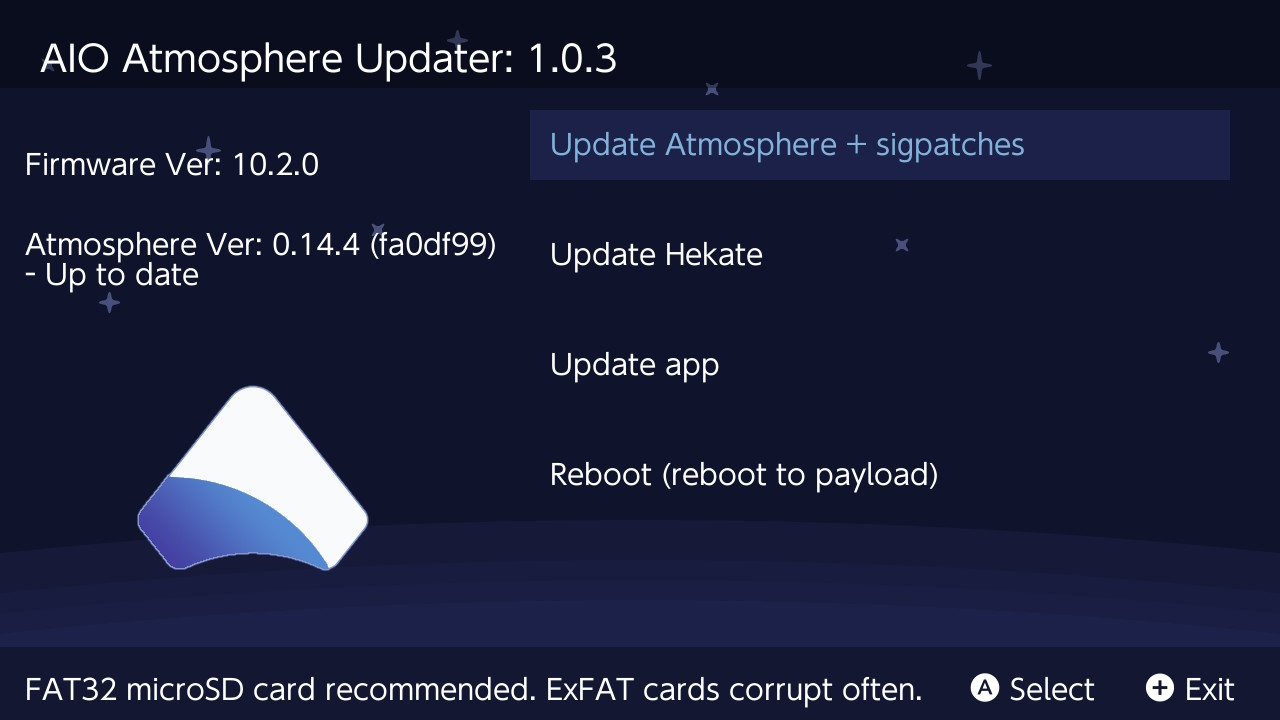
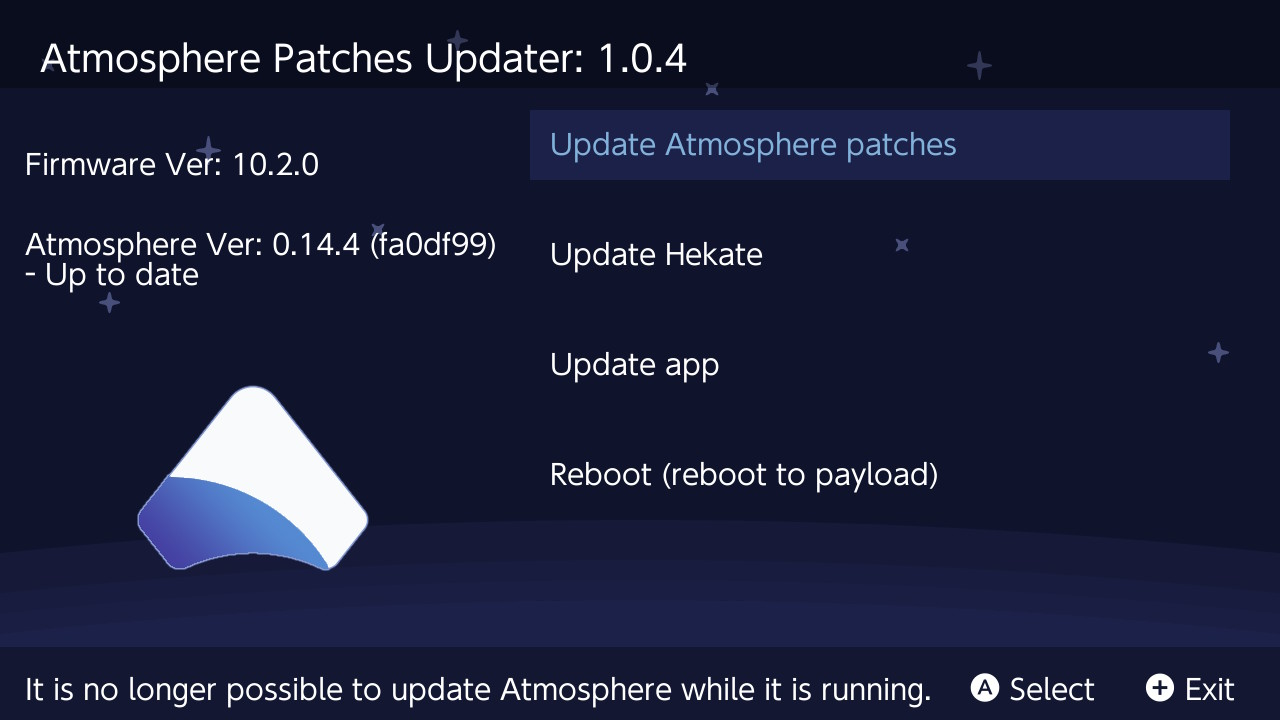
RIP updating atmosphere
https://github.com/Atmosphere-NX/Atmosphere/commit/5b02c77400e8551199fefdbc36b1eb3ff86374dc

Changed region(s): [[0.0312, 0.0611, 0.5312, 0.1222], [0.0, 0.9167, 0.7188, 0.9778], [0.6562, 0.1833, 0.8125, 0.2444]]

diff --git a/source/menu.c b/source/menu.c
@@ -5,7 +5,7 @@
 #include "touch.h"
 #include "util.h"
 
-#define APP_VERSION "AIO Atmosphere Updater: 1.0.3"
+#define APP_VERSION "Atmosphere Patches Updater: 1.0.4"
 
 void refreshScreen(char loaded)
 {
@@ -38,12 +38,12 @@ void printOptionList(int cursor)
 {
     refreshScreen(/*loaded=*/1);
 
-    char *option_list[]      = {    "Update Atmosphere + sigpatches", \
+    char *option_list[]      = {    "Update Atmosphere patches", \
                                     "Update Hekate", \
                                     "Update app", \
                                     "Reboot (reboot to payload)" };
 
-    char *description_list[] = {    "FAT32 microSD card recommended. ExFAT cards corrupt often.", \
+    char *description_list[] = {    "It is no longer possible to update Atmosphere while it is running.", \
                                     "Updates Hekate payload, optionally set it as your reboot payload.", \
                                     "Updates app. Restart app to apply.", \
                                     "Reboots switch to your current reboot payload." };

diff --git a/includes/util.h b/includes/util.h
@@ -16,7 +16,7 @@
 
 void writeSysVersion();                                                 // writes the sys version.
 void writeAmsVersion();                                                 // writes the ams version with hash.
-void writeLatestAtmosphereVersion();                                    // writes the latest Atmosphere version.
+void writeLatestAtmosphereVersion();                                    // writes the latest patchable Atmosphere version.
 char *getSysVersion();                                                  // returns sys version.
 char *getAmsVersion();                                                  // returns ams version.
 char *getLatestAtmosphereVersion();                                     // returns the latest Atmosphere version.

diff --git a/includes/download.h b/includes/download.h
@@ -3,7 +3,7 @@
 
 #define AMS_URL     "https://api.github.com/repos/JackInTheShop/Atmosphere/releases"
 #define HEKATE_URL  "https://api.github.com/repos/CTCaer/hekate/releases"
-#define PATCH_URL   "https://drive.google.com/uc?id=10j-9vr2ByLsWU-1eifryyse3rY_sBSJK"
+#define PATCH_URL   "https://github.com/ITotalJustice/patches/releases/latest/download/fusee.zip"
 #define APP_URL     "https://github.com/JackInTheShop/AIO-atmosphere-updater/releases/latest/download/AIO-atmosphere-updater.nro"
 
 int downloadFile(const char *url, const char *output, int api_mode);

diff --git a/source/util.c b/source/util.c
@@ -177,7 +177,7 @@ void update_hekate()
 
 void update_sigpatches(int cursor)
 {
-    popUpBox(appFonts.fntMedium, 350, 250, SDL_GetColour(white), "Downloading Atmosphere...");
+    popUpBox(appFonts.fntMedium, 350, 250, SDL_GetColour(white), "Downloading patches...");
     drawImageScale(appTextures.error_icon, 570, 340, 128, 128);
     updateRenderer();
     if (!downloadFile(PATCH_URL, PATCH_OUTPUT, OFF))

diff --git a/source/main.c b/source/main.c
@@ -118,7 +118,7 @@ int main(int argc, char **argv)
                 break;
 
             case UP_PATCHES:
-                if (yesNoBox(cursor, 360, 250, "Update Atmosphere + patches?") == YES)
+                if (yesNoBox(cursor, 360, 250, "Update Atmosphere patches?") == YES)
                     update_sigpatches(cursor);
                 break;
 

diff --git a/README.md b/README.md
@@ -1,6 +1,6 @@
 # Atmosphere-Updater
 
-Update Atmosphere CFW and sigpatches from within your switch!
+Update Atmosphere patches from within your switch!
 
 ![Img](images/example.jpg)
 
@@ -20,17 +20,14 @@ That's it!
 
 __**The app currently has 4 main options.**__
 
-**Update Atmosphere + sigpatches:**
+**Update Atmosphere patches:**
 
-* Downloads the latest Atmosphere release and installs everything from that release. 
-* Downloads the latest sigpatches.
-* If `/config/BCT.ini` exists in Atmosphere release, it will prompt user asking if they want to overwrite said file as shown here:
-
-![Img](images/ams_bct_overwrite.jpg)
+* Downloads the latest Atmosphere patches. 
+* It is no longer possible to update Atmosphere while you are running Atmosphere. [Atmosphere now maintains exclusive access to fusee-secondary archive.](https://github.com/Atmosphere-NX/Atmosphere/commit/5b02c77400e8551199fefdbc36b1eb3ff86374dc)
 
 **Update Hekate:**
 
-* Installs the latest release of Hekate.
+* Installs the latest release of Hekate. The UMS feature may be a convenient way to update Atmosphere now.
 * Offers to replace your **/atmosphere/reboot_payload.bin** with Hekate, making Atmosphere reboot to Hekate. It will offer to copy your current **/atmosphere/reboot_payload.bin** to **/bootloader/payloads/reboot_payload.bin** in order to avoid booting to hekate after install with no payloads. If you ran **Update Atmosphere + sigpatches** first, **/atmosphere/reboot_payload.bin** is the latest **fusee-primary.bin**.
 
 ![Img](images/reboot_hekate.jpg)
@@ -44,7 +41,6 @@ __**The app currently has 4 main options.**__
 
 * Reboots the switch, loading the payload from **/atmosphere/reboot_payload.bin**.
 * This is recommended after install Atmosphere.
-* Updating Atmosphere automatically includes the needed **reboot_payload.bin**.
 
 ----
 
